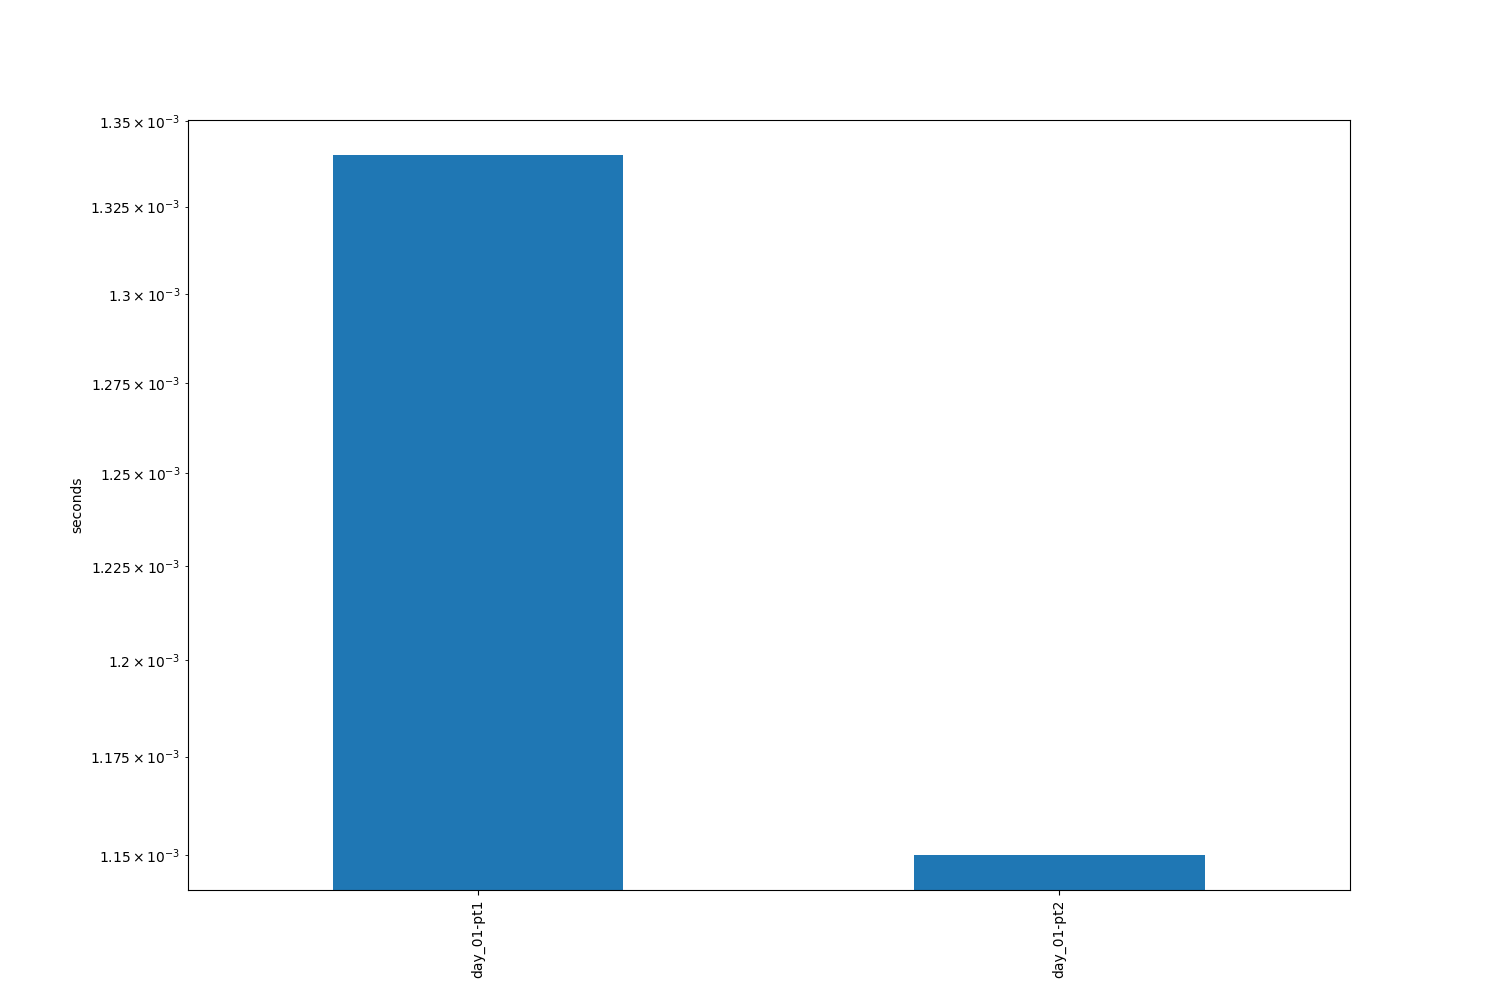
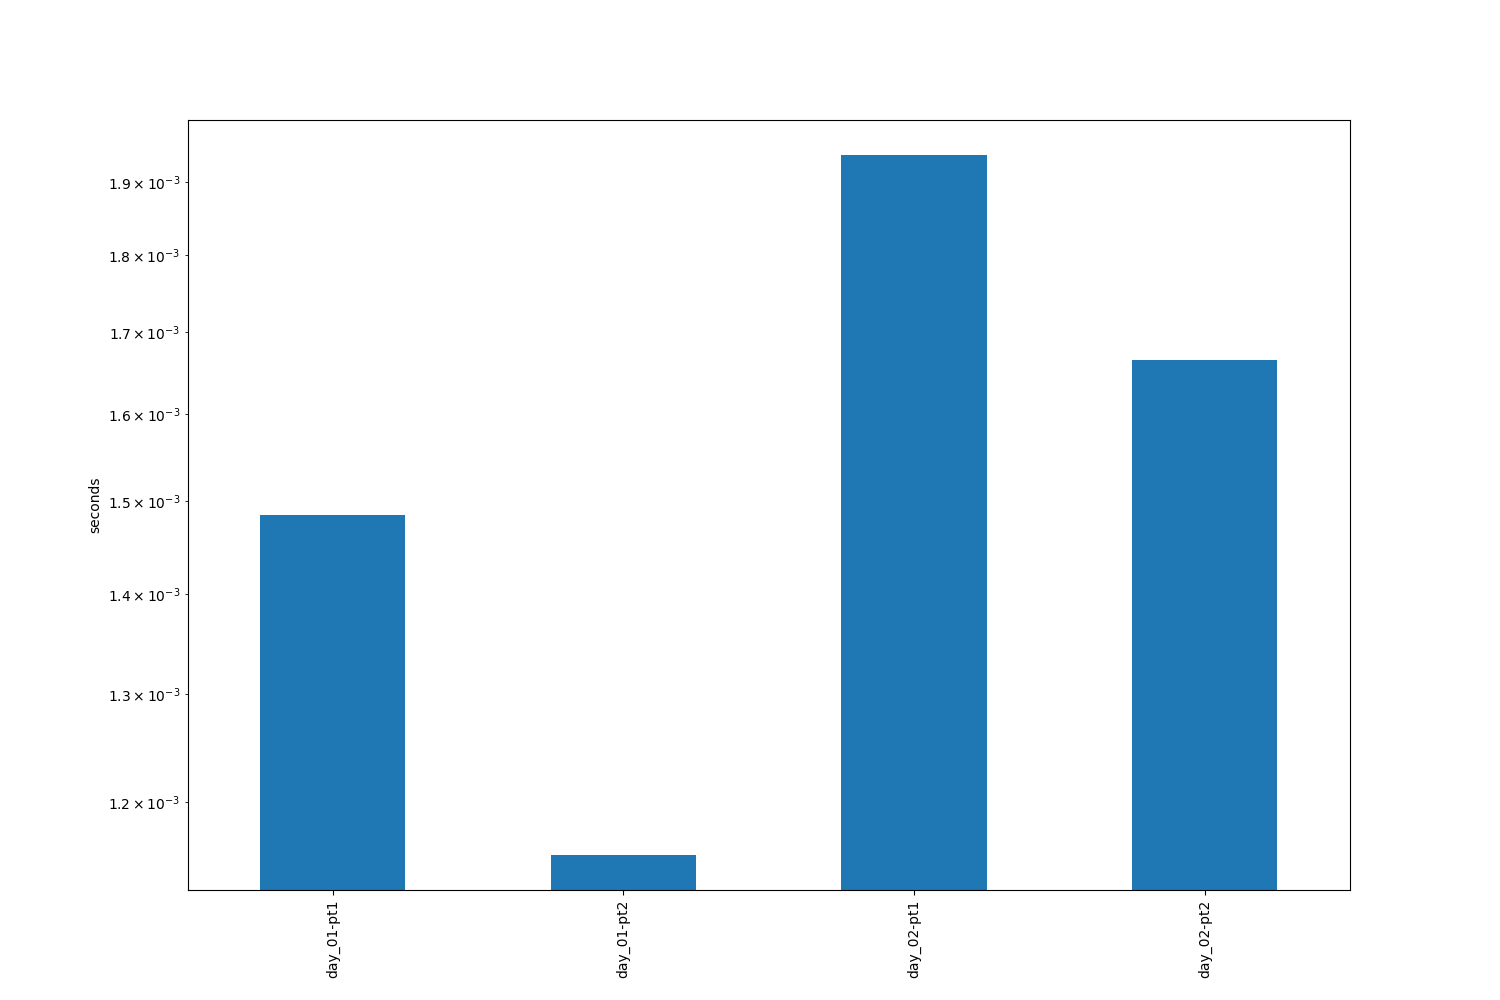
part 2

diff --git a/aoc/day_02.py b/aoc/day_02.py
@@ -1,6 +1,6 @@
 def part_one(file_path: str) -> int:
     """
-    Assuming 
+    Assuming
     A, X are Rock
     B, Y are Paper
     C, Z are Scissors
@@ -33,8 +33,9 @@ def part_one(file_path: str) -> int:
         a = a_map[a.strip()]
         b = b_map[b.strip()]
 
-        score += score_game(a,b)
+        score += score_game(a, b)
     return score
+
 
 def score_game(a: int, b: int) -> int:
     """scores a game for b
@@ -47,7 +48,13 @@ def score_game(a: int, b: int) -> int:
         int: b's score
     """
 
-    return result_score(a,b) + b + 1
+    return result_score(a, b) + b + 1
+
+
+def calculate_move(a: int, r: int) -> int:
+
+    return (a + r + 2) % 3
+
 
 def result_score(a: int, b: int) -> int:
     """score a game of rock paper scissors using a nifty formula
@@ -60,13 +67,18 @@ def result_score(a: int, b: int) -> int:
         int: game score
     """
 
-    return ((1 + (b-a))%3)*3
+    return ((1 + (b - a)) % 3) * 3
+
 
 def part_two(file_path: str):
-    """[summary]
+    """
+    takes the opponents move and the result
+    calculates the required move
+    calculates the score
+    sums the total
 
     Args:
-        file_path (str): [description]
+        file_path (str): input filepath
 
     Returns:
         [type]: [description]
@@ -74,8 +86,24 @@ def part_two(file_path: str):
 
     with open(file_path) as f:
         lines = f.readlines()
+    # map values
+    a_map = {"A": 0, "B": 1, "C": 2}
+    r_map = {"X": 0, "Y": 1, "Z": 2}
 
-    return None
+    # initialise score
+    score = 0
+    for line in lines:
+        # pass and map moves
+        a, r = line.split(" ")
+        a = a_map[a.strip()]
+        r = r_map[r.strip()]
+        # calulate move
+        b = calculate_move(a, r)
+        # add to scores
+        score += r * 3
+        score += b + 1
+
+    return score
 
 
 if __name__ == "__main__":

diff --git a/tests/test_day_02.py b/tests/test_day_02.py
@@ -1,30 +1,54 @@
-from aoc.day_02 import part_one, part_two, result_score
+from aoc.day_02 import part_one, part_two, result_score, calculate_move
 import pytest
+
 
 def test_part_one():
 
     test_file_path = "tests/test_inputs/test_day_02.txt"
 
-    assert part_one(test_file_path)
+    assert part_one(test_file_path) == 15
+
 
 def test_part_two():
 
     test_file_path = "tests/test_inputs/test_day_02.txt"
 
-    assert part_two(test_file_path)
+    assert part_two(test_file_path) == 12
 
-@pytest.mark.parametrize("a,b,score",[
-    (0,0,3),
-    (0,1,6),
-    (0,2,0),
-    (1,0,0),
-    (1,1,3),
-    (1,2,6),
-    (2,0,6),
-    (2,1,0),
-    (2,2,3)
-]
+
+@pytest.mark.parametrize(
+    "a,b,score",
+    [
+        (0, 0, 3),
+        (0, 1, 6),
+        (0, 2, 0),
+        (1, 0, 0),
+        (1, 1, 3),
+        (1, 2, 6),
+        (2, 0, 6),
+        (2, 1, 0),
+        (2, 2, 3),
+    ],
 )
-def test_result_score(a,b,score):
+def test_result_score(a, b, score):
 
-    assert result_score(a,b) == score 
+    assert result_score(a, b) == score
+
+
+@pytest.mark.parametrize(
+    "a,r,move",
+    [
+        (0, 0, 2),
+        (0, 1, 0),
+        (0, 2, 1),
+        (1, 0, 0),
+        (1, 1, 1),
+        (1, 2, 2),
+        (2, 0, 1),
+        (2, 1, 2),
+        (2, 2, 0),
+    ],
+)
+def test_result_score(a, r, move):
+
+    assert calculate_move(a, r) == move

diff --git a/tests/test_day_01.py b/tests/test_day_01.py
@@ -1,5 +1,6 @@
 from aoc.day_01 import part_one, part_two
 
+
 def test_part_one():
 
     test_file_path = "tests/test_inputs/test_day_01.txt"
